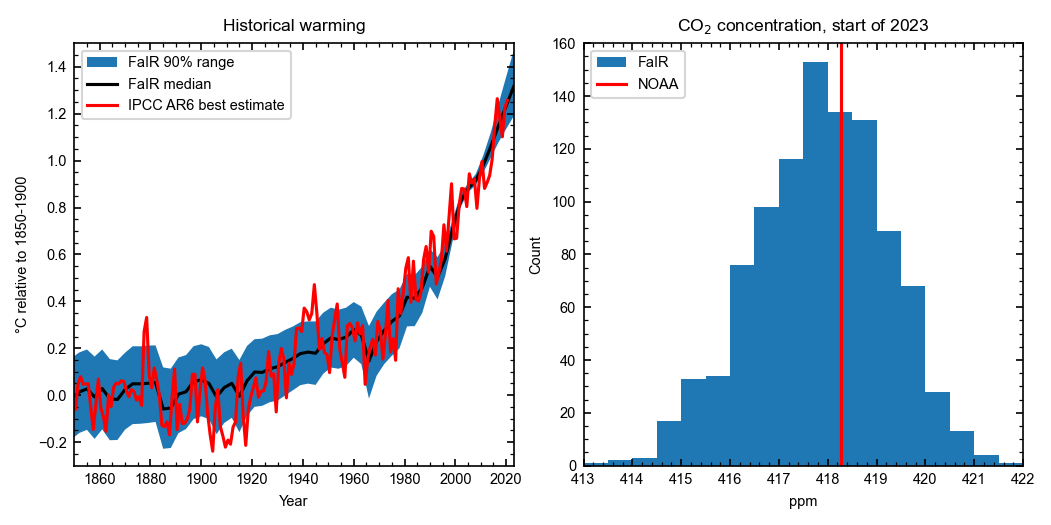
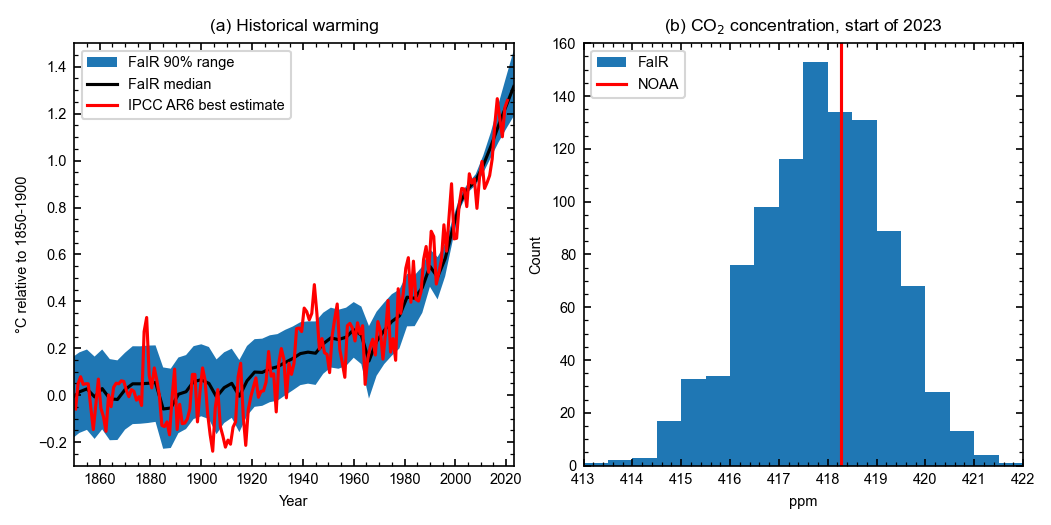
add a and b labels to climate plots

Changed region(s): [[0.6394, 0.0305, 0.9134, 0.061], [0.1827, 0.0305, 0.3654, 0.061]]

diff --git a/scripts/03_diagnostic_climate_plots.py b/scripts/03_diagnostic_climate_plots.py
@@ -41,7 +41,7 @@ years = np.array(data.columns, dtype=int)
 ax[0].fill_between(years, np.percentile(data.T, 5, axis=1), np.percentile(data.T, 95, axis=1), label="FaIR 90% range")
 ax[0].plot(years, np.median(data.T, axis=1), color='k', label="FaIR median")
 ax[0].plot(years_obs+0.5, ar6_gmst['gmst'], color='r', label="IPCC AR6 best estimate")
-ax[0].set_title("Historical warming")
+ax[0].set_title("(a) Historical warming")
 ax[0].set_ylabel("°C relative to 1850-1900")
 ax[0].set_xlabel('Year')
 ax[0].set_xlim(1850, 2023)
@@ -51,7 +51,7 @@ ax[0].legend()
 data = pd.read_csv(os.path.join(here, '..', 'data_output', 'climate_configs', 'gas_partitions_ssp245.csv'))
 hgdata = ax[1].hist(data['co2_2023'], bins=np.arange(np.floor(np.min(data['co2_2023'])), np.ceil(np.max(data['co2_2023']))+0.5, 0.5), label="FaIR")
 ax[1].axvline(co2_20230101_noaa, color='r', label="NOAA")
-ax[1].set_title("CO$_2$ concentration, start of 2023")
+ax[1].set_title("(b) CO$_2$ concentration, start of 2023")
 ax[1].set_xlabel('ppm')
 ax[1].set_ylabel('Count')
 ax[1].set_ylim(0, 10*np.ceil(np.max(hgdata[0]/10)))
